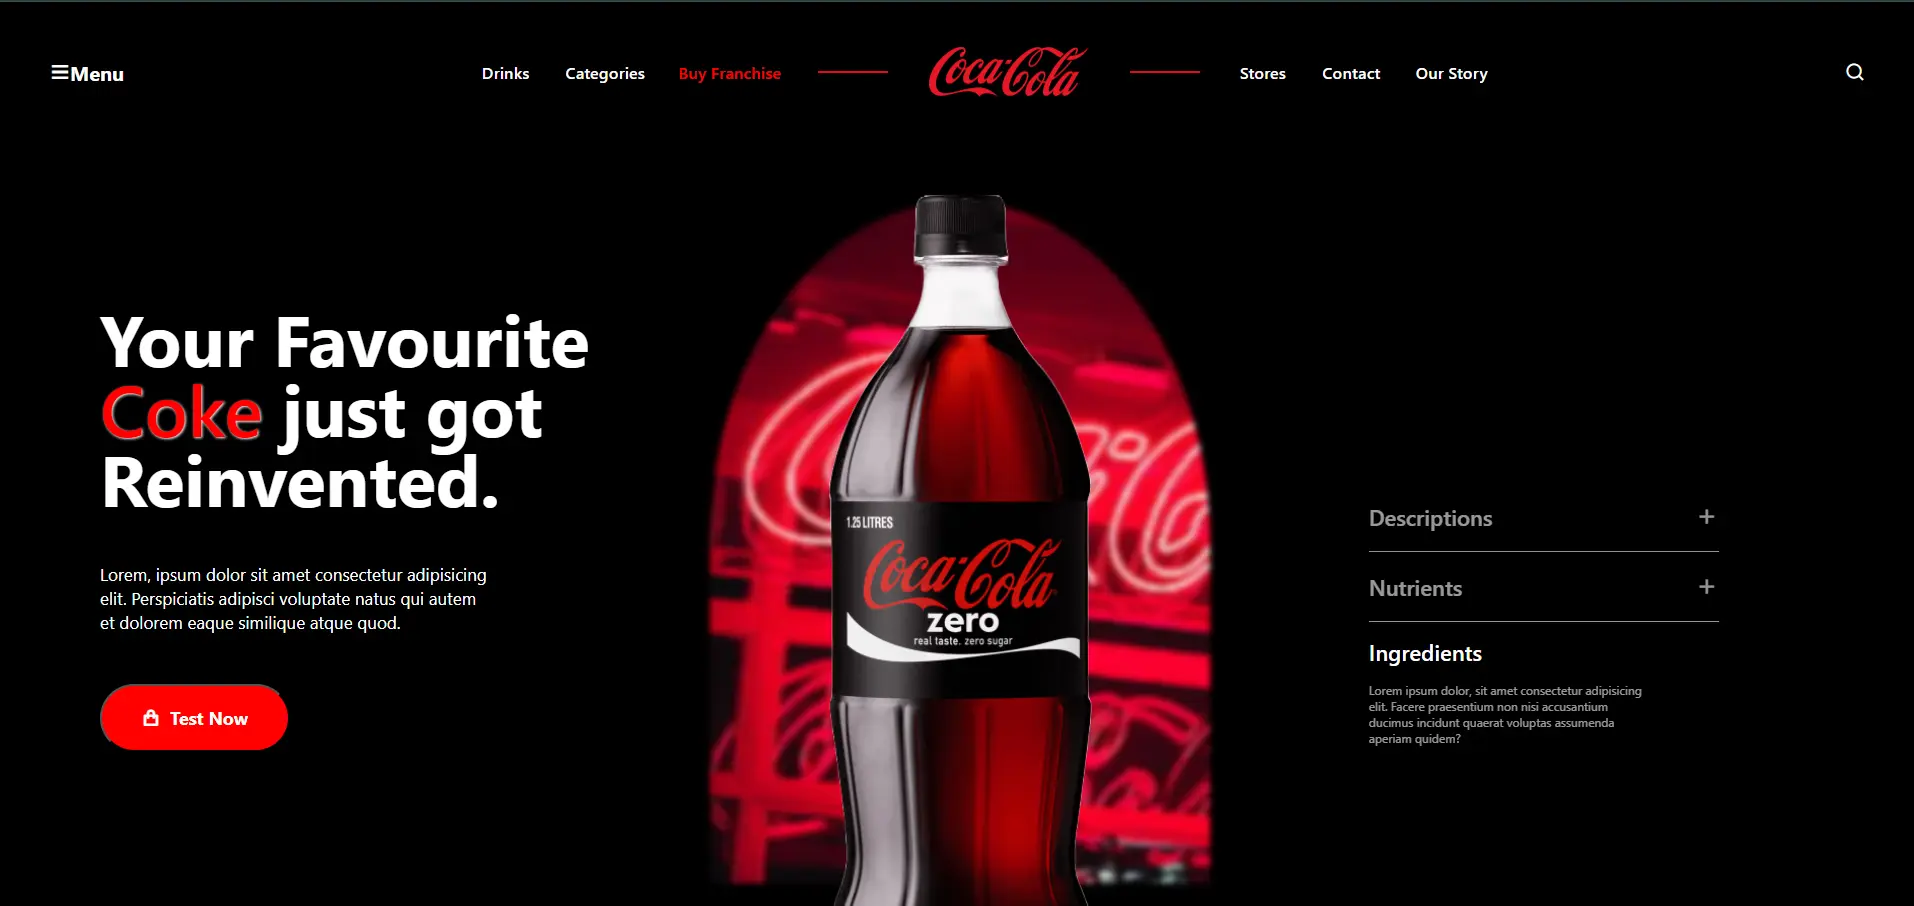
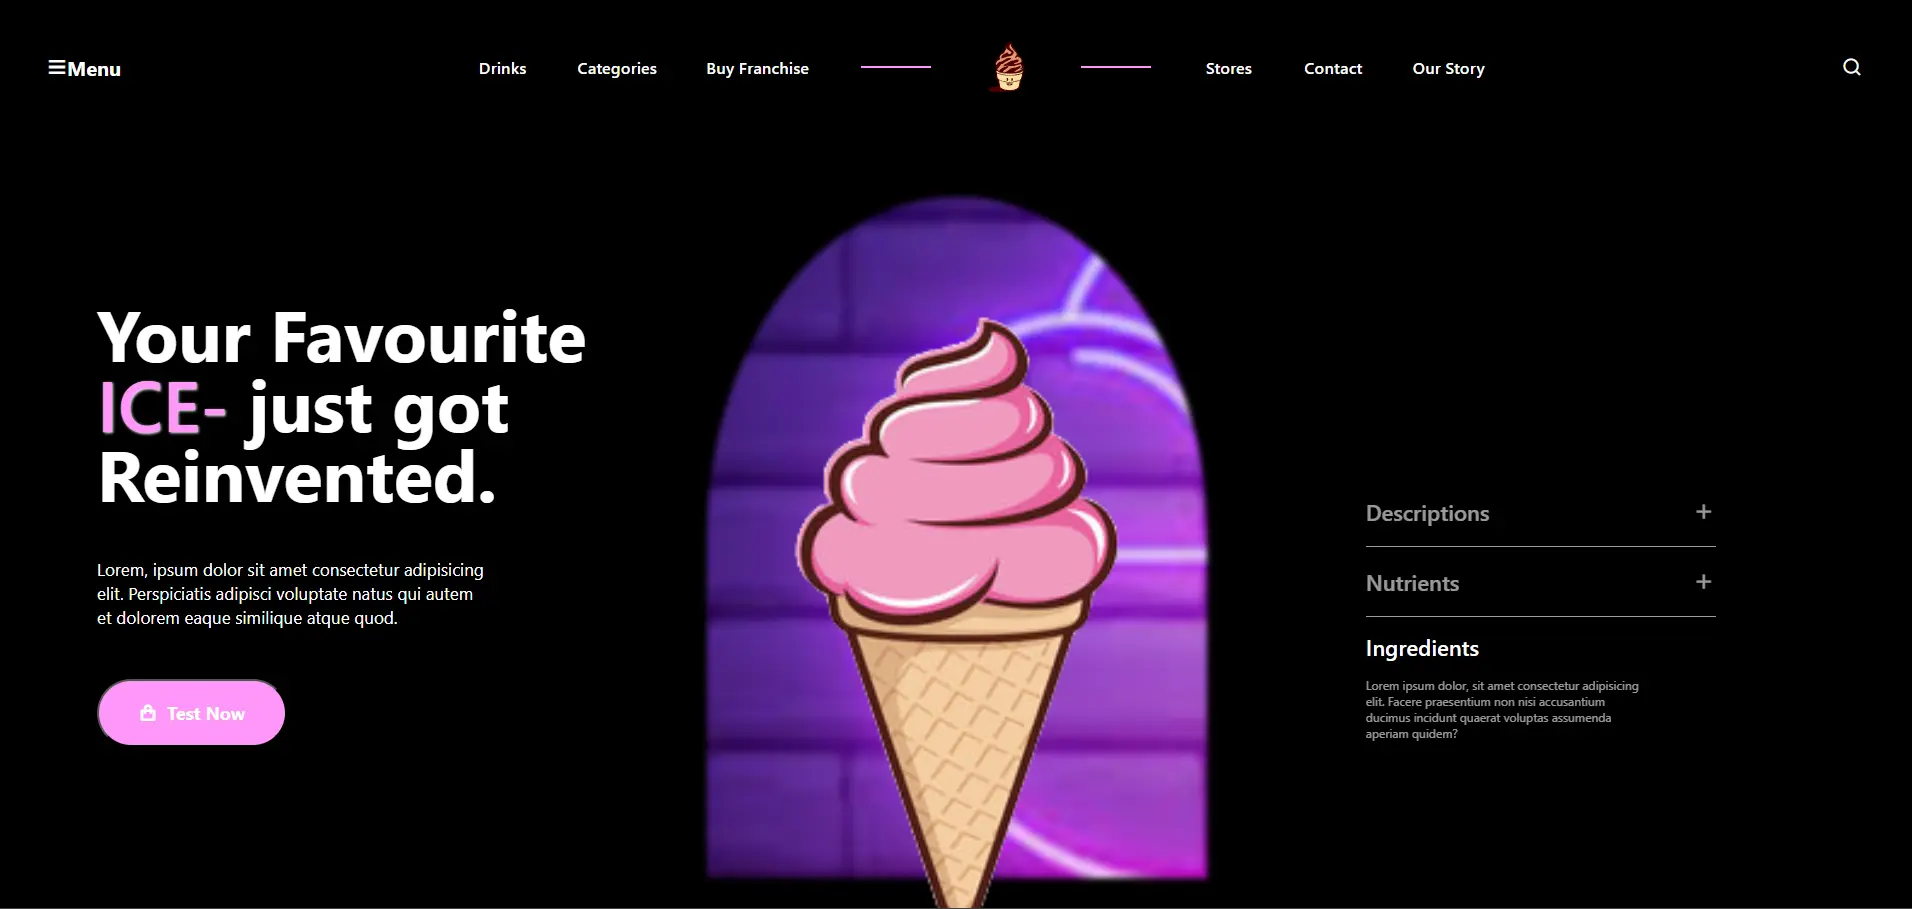
add

diff --git a/projects.html b/projects.html
@@ -252,14 +252,14 @@
 
             <!--==================== PROJECTS 10 ====================--> 
             <div class="projects__content swiper-slide">
-              <!-- <a href="" target="_blank" class="projects__button"> -->
+              <a href="https://cool-ice.vercel.app/" target="_blank" class="projects__button">
               <img src="assets/img/project10.webp" alt="projects image" class="projects__img">
               </a>
               <div>
                   <span class="projects__subtitle">Web</span>
-                  <h1 class="projects__title">Coca Cola web</h1>
+                  <h1 class="projects__title">CooL-ICE-Cream</h1>
 
-                   <a href="" target="_blank" class="projects__button">
+                   <a href="https://cool-ice.vercel.app/" target="_blank" class="projects__button">
                       View demo <i class="ri-arrow-right-line"></i>
                    </a>
              </div>
